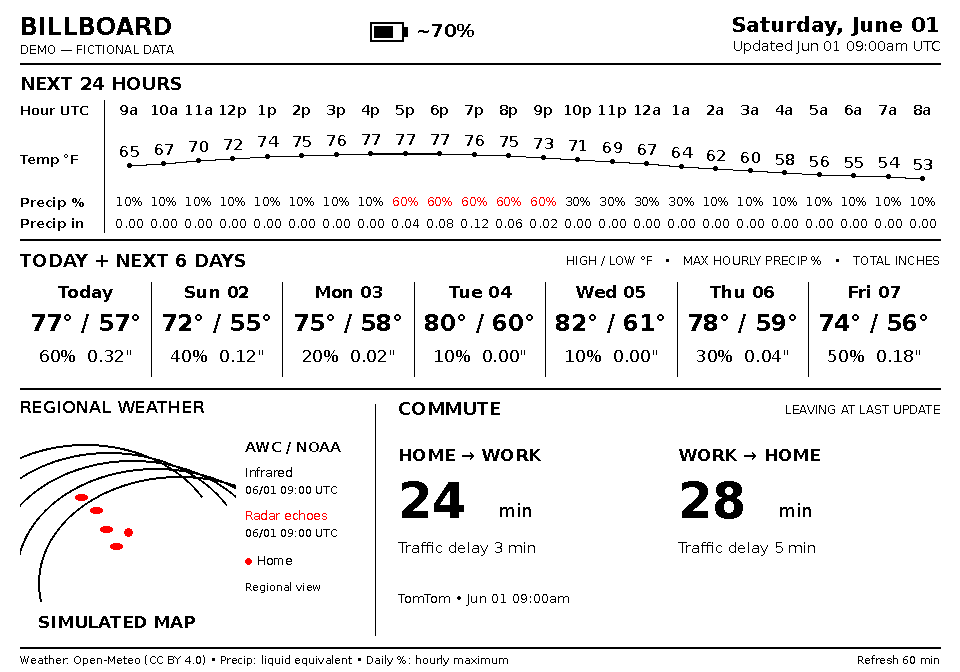
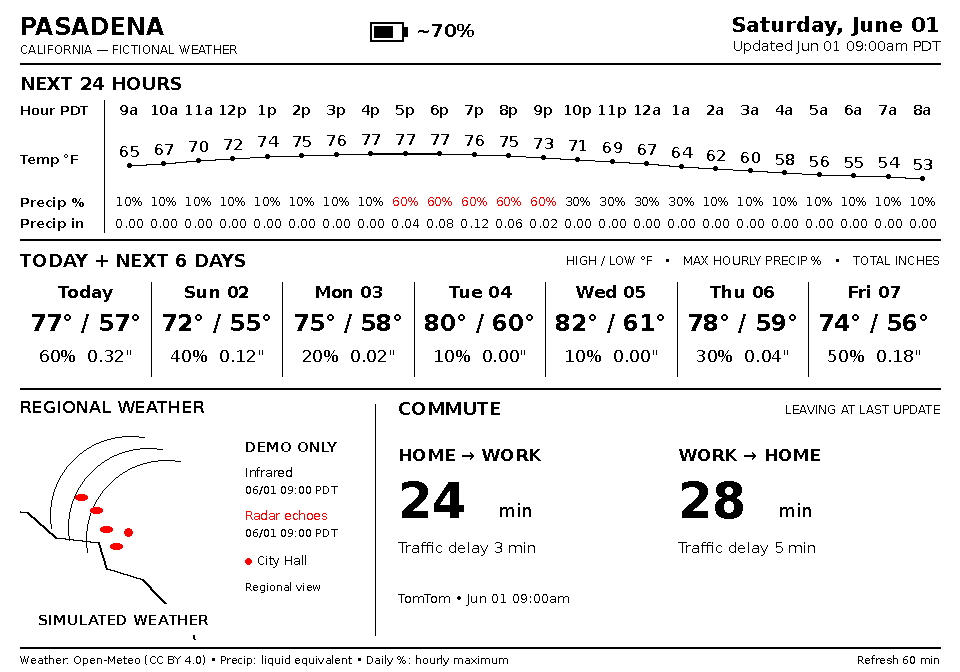
Center the public demo on Pasadena City Hall

diff --git a/scripts/demo.py b/scripts/demo.py
@@ -3,18 +3,23 @@
 from datetime import datetime
 from io import BytesIO
 import math
+import json
 from pathlib import Path
 import sys
 from zoneinfo import ZoneInfo
 sys.path.insert(0, str(Path(__file__).resolve().parents[1]))
 import dashboard as app
 from PIL import Image, ImageDraw
+from awc import world_pixel, ZOOM, SPAN
+
+# Public civic-center reference, not a private home or workplace.
+PASADENA_CITY_HALL = (34.1478, -118.1436)
 
 
 def main():
-    app.TZ = ZoneInfo('UTC')
-    app.LOCATION_LABEL = 'BILLBOARD'
-    app.REGION_LABEL = 'DEMO — FICTIONAL DATA'
+    app.TZ = ZoneInfo('America/Los_Angeles')
+    app.LOCATION_LABEL = 'PASADENA'
+    app.REGION_LABEL = 'CALIFORNIA — FICTIONAL WEATHER'
     now = datetime(2030, 6, 1, 9, tzinfo=app.TZ).timestamp()
     hours = [now+i*3600 for i in range(24)]
     days = [datetime(2030, 6, 1+i, tzinfo=app.TZ).timestamp() for i in range(7)]
@@ -29,15 +34,32 @@ def main():
     tile = Image.new('RGB',(216,216), app.WHITE)
     d = ImageDraw.Draw(tile)
     d.fontmode = '1'
-    for i in range(5):
-        d.arc((-70+i*22,20+i*8,200+i*25,230+i*9), 170,330,fill=app.BLACK,width=2)
+    # Real public-domain coastal geography centered on Pasadena City Hall.
+    cx, cy = world_pixel(*PASADENA_CITY_HALL, ZOOM)
+    def project(lon, lat):
+        x, y = world_pixel(lat, lon, ZOOM)
+        return ((x-cx+SPAN/2)*216/SPAN, (y-cy+SPAN/2)*216/SPAN)
+    land=json.loads((Path(__file__).resolve().parents[1]/'assets/land.geojson').read_text())
+    for feature in land['features']:
+        geometry=feature['geometry']
+        polygons=[geometry['coordinates']] if geometry['type']=='Polygon' else geometry['coordinates']
+        for polygon in polygons:
+            for ring in polygon:
+                points=[project(lon,lat) for lon,lat in ring]
+                for first,second in zip(points,points[1:]):
+                    if abs(second[0]-first[0]) < (256*2**ZOOM/2)*216/SPAN:
+                        d.line((first,second),fill=app.BLACK,width=2)
+    # Stylized clouds/echoes are explicitly fictional, not current imagery.
+    for i in range(3):
+        d.arc((30+i*18,12+i*12,190+i*18,170+i*12),170,280,fill=app.BLACK,width=1)
     for x,y in [(55,70),(70,83),(80,102),(90,119)]: d.ellipse((x,y,x+12,y+6), fill=app.RED)
     d.ellipse((104,104,112,112),fill=app.RED)
     d.rectangle((10,180,205,210),fill=app.WHITE)
-    d.text((18,188),'SIMULATED MAP',font=app.font(17,True),fill=app.BLACK)
+    d.text((18,188),'SIMULATED WEATHER',font=app.font(14,True),fill=app.BLACK)
     # Ensure the sample has precisely the panel's three colors.
     stream=BytesIO(); tile.save(stream,format='PNG')
-    satellite={'body':stream.getvalue(),'source_at':now,'satellite_at':now,'radar_at':now}
+    satellite={'body':stream.getvalue(),'source_at':now,'satellite_at':now,'radar_at':now,
+               'source_label':'DEMO ONLY', 'marker_label':'City Hall'}
     commute={'status':'ok','fetched_at':now,'to_work':{'minutes':24,'delay_minutes':3},
              'to_home':{'minutes':28,'delay_minutes':5}}
     image=app.render(weather,satellite,commute,{},now,{'supply_mv':3920,'sampled_at':now})

diff --git a/dashboard.py b/dashboard.py
@@ -220,13 +220,13 @@ def render(weather, satellite, commute, errors, now, battery=None):
         im.paste(thumb, (20, 424))
         source_time = satellite.get('source_at')
         outdated = ('satellite' in errors or source_time is None or now - source_time > 7200)
-        text(245, 439, 'AWC / NOAA', 14, True)
+        text(245, 439, satellite.get('source_label', 'AWC / NOAA'), 14, True)
         text(245, 465, 'Infrared', 12)
         text(245, 483, datetime.fromtimestamp(satellite['satellite_at'], TZ).strftime('%m/%d %H:%M %Z'), 11)
         text(245, 508, 'Radar echoes', 12, color=RED)
         text(245, 526, datetime.fromtimestamp(satellite['radar_at'], TZ).strftime('%m/%d %H:%M %Z'), 11)
         d.ellipse((245, 558, 251, 564), fill=RED)
-        text(257, 553, 'Home', 12)
+        text(257, 553, satellite.get('marker_label', 'Home'), 12)
         text(245, 580, 'Regional view', 11)
         if outdated:
             text(245, 604, 'STALE', 12, True, RED)

diff --git a/README.md b/README.md
@@ -10,8 +10,9 @@ official Hackaday release.
 
 ![Fictional example dashboard](docs/demo.png)
 
-*This screenshot uses fictional forecasts, travel times and map artwork. It does
-not contain a real installation's location, observations or credentials.*
+*The demo is centered on Pasadena City Hall, California (34.1478, -118.1436),
+using public geographic outlines and Pacific time. Forecasts, travel times and
+weather overlays are fictional. No private installation data is included.*
 
 ## What it does
 
@@ -60,7 +61,8 @@ blank and edit the ignored `firmware/main/private_config.h` later.
 It creates `.env`, fresh TLS certificates, separate random badge/viewer credentials,
 an empty TomTom key file, an nginx allowlist and private firmware configuration.
 It refuses to overwrite an existing installation. `.env.example` documents the
-settings; it is not a usable production location configuration.
+settings with Pasadena City Hall as a public example; choose your own location
+during setup.
 
 On the **Docker host**, prepare file ownership and start the services:
 

diff --git a/docs/third-party.md b/docs/third-party.md
@@ -31,4 +31,9 @@ The dataset is bundled for reproducibility; it is not fetched at runtime.
   dependencies; their license files are not replaced by the project license.
 
 The included `docs/demo.png` is generated solely by `scripts/demo.py` using
-fictional values and geometry. No live dashboard capture is distributed.
+fictional weather/travel values and the public Natural Earth coastline. Its
+reference point is the Pasadena civic center near City Hall, approximately
+34.1478, -118.1436. Public location references:
+https://www.cityofpasadena.net/contact/ and
+https://ungegn.un.org/dashboard/cities/details?id=353.
+No live dashboard capture or private address is distributed.
